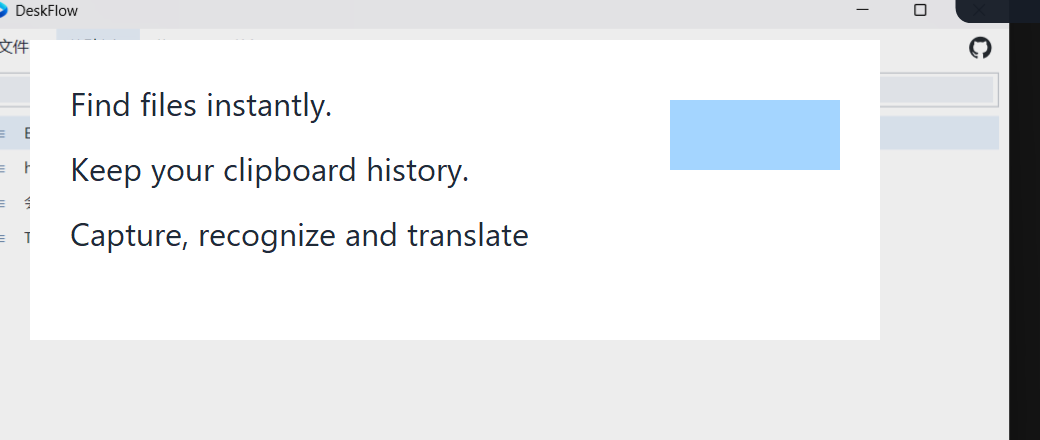
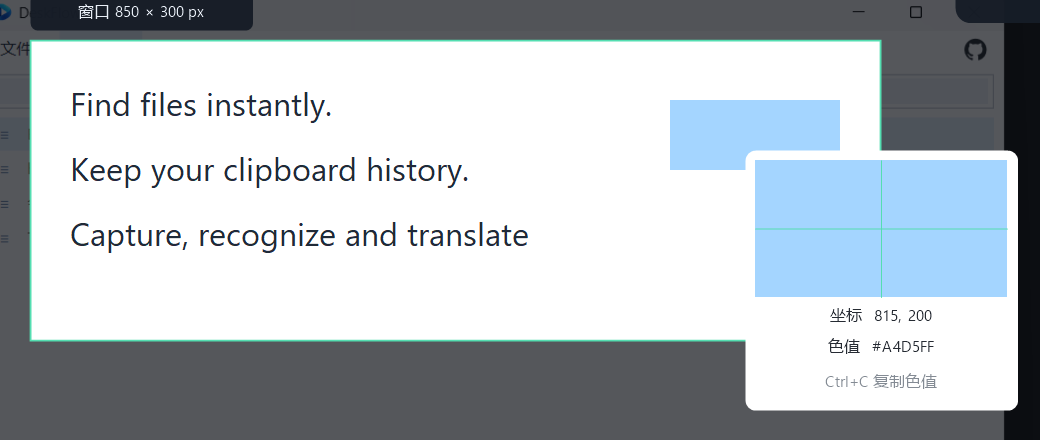
Keep capture preview above pinned windows and refresh synthetic hover gallery

diff --git a/tests/documentation_preview.cpp b/tests/documentation_preview.cpp
@@ -15,7 +15,7 @@ int wmain(int argc,wchar_t** argv){if(argc!=2)return 2;auto output=std::filesyst
         WNDCLASSW seedClass{};seedClass.lpfnWndProc=sampleWindow;seedClass.hInstance=app.instance;seedClass.lpszClassName=L"DeskFlowDocumentationSample";RegisterClassW(&seedClass);auto seed=CreateWindowExW(WS_EX_TOPMOST,seedClass.lpszClassName,L"Demo",WS_POPUP,130,120,850,300,nullptr,nullptr,app.instance,nullptr);SetWindowPos(seed,HWND_TOPMOST,0,0,0,0,SWP_NOMOVE|SWP_NOSIZE|SWP_SHOWWINDOW);UpdateWindow(seed);DwmFlush();
         OcrResult ocr;ocr.width=770;ocr.height=230;ocr.lines={{L"Find files instantly.",10,8,500,50},{L"Keep your clipboard history.",10,73,620,50},{L"Capture, recognize and translate.",10,138,740,50}};
         beginCapture(host,{}, {},[ocr](HBITMAP source,std::atomic_bool&){return renderTranslation(source,ocr,{L"快速找到文件。",L"保留你的剪贴板历史。",L"截图、识别与原图翻译。"});});auto overlay=FindWindowW(L"DeskEfficiencyCaptureOverlay",nullptr);
-        POINT hoverPixel{815,200};ScreenToClient(overlay,&hoverPixel);SendMessageW(overlay,WM_MOUSEMOVE,0,MAKELPARAM(hoverPixel.x,hoverPixel.y));pump(80);auto hoverView=captureRegion({100,80,1140,520});saveBitmapPng(hoverView,output/L"capture-hover.png");DeleteObject(hoverView);
+        POINT hoverPixel{815,200};ScreenToClient(overlay,&hoverPixel);SendMessageW(overlay,WM_MOUSEMOVE,0,MAKELPARAM(hoverPixel.x,hoverPixel.y));pump(80);SendMessageW(overlay,WM_MOUSEMOVE,0,MAKELPARAM(hoverPixel.x,hoverPixel.y));UpdateWindow(overlay);DwmFlush();auto hoverView=captureRegion({100,80,1140,520});saveBitmapPng(hoverView,output/L"capture-hover.png");DeleteObject(hoverView);
         SendMessageW(overlay,WM_LBUTTONDOWN,MK_LBUTTON,MAKELPARAM(160,150));SendMessageW(overlay,WM_MOUSEMOVE,MK_LBUTTON,MAKELPARAM(930,380));SendMessageW(overlay,WM_LBUTTONUP,0,MAKELPARAM(930,380));pump(80);
         RECT view{100,100,1140,500};auto bitmap=captureRegion(view);saveBitmapPng(bitmap,output/L"capture.png");DeleteObject(bitmap);SendMessageW(overlay,WM_KEYDOWN,'T',0);pump(150);bitmap=captureRegion(view);saveBitmapPng(bitmap,output/L"translation.png");DeleteObject(bitmap);
         SendMessageW(overlay,WM_KEYDOWN,'P',0);pump(80);auto pin=FindWindowW(L"DeskEfficiencyPinnedImage",nullptr);saveWindow(pin,output/L"pin.png");SendMessageW(pin,WM_CLOSE,0,0);

diff --git a/src/capture.cpp b/src/capture.cpp
@@ -1070,6 +1070,7 @@ void beginCapture(HWND owner, CaptureCallback callback, RegionCallback recording
     if (!window) { recover(); return; }
     state->scale = std::clamp(GetDpiForWindow(window) / 96.0f, 1.0f, 2.5f); activeWindow = window;
     state->cursor = state->mouse(); state->cursorKnown = true; state->updateHover();
-    ShowWindow(window, SW_SHOW); SetForegroundWindow(window); SetFocus(window); UpdateWindow(window);
+    SetWindowPos(window,HWND_TOPMOST,0,0,0,0,SWP_NOMOVE|SWP_NOSIZE|SWP_SHOWWINDOW);
+    SetForegroundWindow(window); SetFocus(window); UpdateWindow(window);
 }
 }
